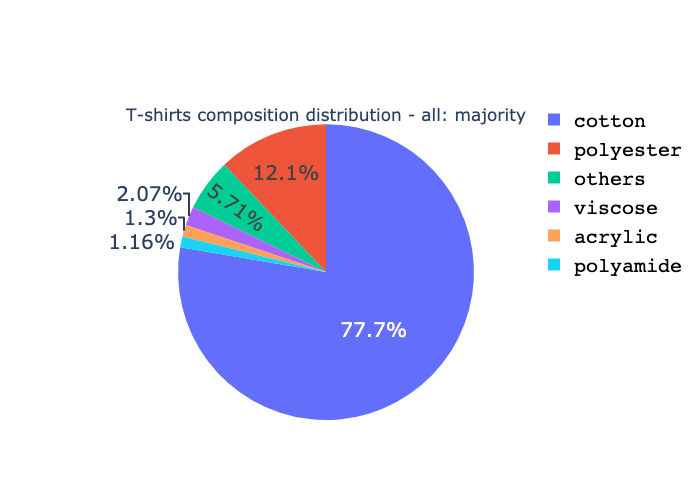
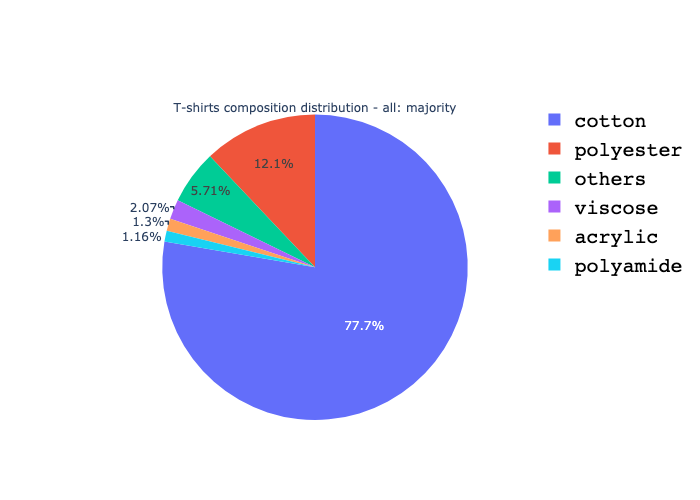
3rd updates on composition plots

diff --git a/EDA/EDA.py b/EDA/EDA.py
@@ -109,7 +109,7 @@ def plot_material_distribution(df, materials_columns, type):
                                         title = f"T-shirts composition distribution - {type}: majority")])
     fig.update_layout(legend = dict(font = dict(family = "Courier", size = 20, color = "black")),
                     legend_title = dict(font = dict(family = "Courier", size = 20, color = "blue")),
-                    font=dict(size=20))
+                    title = dict(font=dict(size=20)))
     fig.write_image(f"./EDA/composition_distribution_{type}_majority.png")
     fig.show()
 
@@ -117,7 +117,7 @@ def plot_material_distribution(df, materials_columns, type):
                                         title = f"T-shirts composition distribution - {type}: below 1%")])
     fig.update_layout(legend = dict(font = dict(family = "Courier", size = 20, color = "black")),
                     legend_title = dict(font = dict(family = "Courier", size = 20, color = "blue")),
-                    font=dict(size=20))
+                    title = dict(font=dict(size=20)))
     fig.write_image(f"./EDA/composition_distribution_{type}_minority.png")
     fig.show()
 
@@ -126,84 +126,84 @@ if __name__ == "__main__":
 
     df = pd.read_csv("./data/E-Weaver_data.csv", index_col = [0])
 
-    # # Statistical description for datatypes 
-    # print(df.info())
-    # print("-"*50)
-    # print(df.dtypes)
-    # print("-"*50)
-    # print(df.describe().T)
-    # print("-"*50)
+    # Statistical description for datatypes 
+    print(df.info())
+    print("-"*50)
+    print(df.dtypes)
+    print("-"*50)
+    print(df.describe().T)
+    print("-"*50)
 
-    # # Checking the number of rows having null values
-    # print(df[df.columns[df.isnull().any()]].isnull().sum())
-    # print("-"*50)
+    # Checking the number of rows having null values
+    print(df[df.columns[df.isnull().any()]].isnull().sum())
+    print("-"*50)
 
-    # # How many unique colors in dataset
-    # print(len(df["color"].unique()))
+    # How many unique colors in dataset
+    print(len(df["color"].unique()))
 
-    # # Price columns' distribution in bar plot
-    # df['price'].value_counts().head(10).plot.bar()
-    # plt.title("Price counts in descending order")
-    # plt.xlabel("price($)")
-    # plt.ylabel("counts")
-    # plt.savefig(f"./EDA/price_histogram.png")
-    # plt.show()
+    # Price columns' distribution in bar plot
+    df['price'].value_counts().head(10).plot.bar()
+    plt.title("Price counts in descending order")
+    plt.xlabel("price($)")
+    plt.ylabel("counts")
+    plt.savefig(f"./EDA/price_histogram.png")
+    plt.show()
 
-    # # Outlier analysis of price column
-    # price_df = df["price"]
-    # ax = sns.boxplot(data = price_df, palette = "Set2")
-    # plt.title("Outlier analysis of price attribute")
-    # plt.savefig(f"./EDA/price_outlier.png")
-    # plt.show()
+    # Outlier analysis of price column
+    price_df = df["price"]
+    ax = sns.boxplot(data = price_df, palette = "Set2")
+    plt.title("Outlier analysis of price attribute")
+    plt.savefig(f"./EDA/price_outlier.png")
+    plt.show()
 
     # Correlation analysis between numerical value attributes
     columns = df.columns.tolist()
     composition_index = columns.index("composition")
     materials_columns = columns[composition_index+1:-1]
 
-    # numerical_columns = materials_columns+["price"]
-    # numerical_df = df[numerical_columns]
+    numerical_columns = materials_columns+["price"]
+    numerical_df = df[numerical_columns]
     
-    # colormap = plt.cm.RdBu
-    # plt.figure(figsize=(15,15))
-    # plt.title("Pearson correlation of numerical features", y = 1.05, size = 15)
-    # sns.heatmap(numerical_df.astype(float).corr(), annot = True)
-    # plt.savefig(f"./EDA/numerical_feature_heatmap.png")
-    # plt.show()
+    colormap = plt.cm.RdBu
+    plt.figure(figsize=(15,15))
+    plt.title("Pearson correlation of numerical features", y = 1.05, size = 15)
+    sns.heatmap(numerical_df.astype(float).corr(), annot = True)
+    plt.savefig(f"./EDA/numerical_feature_heatmap.png")
+    plt.show()
 
-    # brand_lst = list(df.brand.unique())
-    # # for brand in brand_lst:
-    # #     # Create wordcloud for each indivicual brand
-    # #     tmp_df = df[df["brand"]==brand]
-    # #     make_wordcloud(tmp_df, brand)
+    brand_lst = list(df.brand.unique())
+    # for brand in brand_lst:
+    #     # Create wordcloud for each indivicual brand
+    #     tmp_df = df[df["brand"]==brand]
+    #     make_wordcloud(tmp_df, brand)
 
-    # #     # Create visualization for images'size distribution
-    # #     if brand == "tentree":
-    # #         continue
-    # #     imagePath_lst = [os.path.join("data/image_data", f) for f in os.listdir("data/image_data/") if brand in f]
-    # #     dim_df = pd.DataFrame([get_dims(imagePath) for imagePath in imagePath_lst], columns = ["height", "width"])
-    # #     dim_df = dim_df[dim_df.height != 0]
-    # #     plot_image_distribution(dim_df, brand)
+    #     # Create visualization for images'size distribution
+    #     if brand == "tentree":
+    #         continue
+    #     imagePath_lst = [os.path.join("data/image_data", f) for f in os.listdir("data/image_data/") if brand in f]
+    #     dim_df = pd.DataFrame([get_dims(imagePath) for imagePath in imagePath_lst], columns = ["height", "width"])
+    #     dim_df = dim_df[dim_df.height != 0]
+    #     plot_image_distribution(dim_df, brand)
 
-    # # Create wordcloud for all data
-    # make_wordcloud(df, "all")
+    # Create wordcloud for all data
+    make_wordcloud(df, "all")
 
-    # # Create visualization for all images's size
-    # imagePath_lst = [os.path.join("data/image_data", f) for f in os.listdir("data/image_data/")]
-    # dim_df = pd.DataFrame([get_dims(imagePath) for imagePath in imagePath_lst], columns = ["height", "width"])
+    # Create visualization for all images's size
+    imagePath_lst = [os.path.join("data/image_data", f) for f in os.listdir("data/image_data/")]
+    dim_df = pd.DataFrame([get_dims(imagePath) for imagePath in imagePath_lst], columns = ["height", "width"])
     
-    # # Get rid of image failed to download which only has 1 channel only
-    # dim_df = dim_df[dim_df.height != 0]
-    # plot_image_distribution(dim_df, "all")
+    # Get rid of image failed to download which only has 1 channel only
+    dim_df = dim_df[dim_df.height != 0]
+    plot_image_distribution(dim_df, "all")
 
-    # # Create visualization for price column
-    # # plot_order1 = df["price"].groupby('price')['price'].sum().sort_values(ascending=True).index.values
-    # g = sns.catplot("price", data=df, kind='count', height=10, aspect=1.5)
-    # (g.set_axis_labels("Price", "Count").set_titles("All data price distribution").despine(left=True))  
+    # Create visualization for price column
+    # plot_order1 = df["price"].groupby('price')['price'].sum().sort_values(ascending=True).index.values
+    g = sns.catplot("price", data=df, kind='count', height=10, aspect=1.5)
+    (g.set_axis_labels("Price", "Count").set_titles("All data price distribution").despine(left=True))  
 
-    # # Create visualization for all the composition materials
-    # df_men = df[df["gender"]=="men"]
-    # df_women = df[df["gender"]=="women"]
+    # Create visualization for all the composition materials
+    df_men = df[df["gender"]=="men"]
+    df_women = df[df["gender"]=="women"]
 
     plot_material_distribution(df, materials_columns, "all")
     # Create visualization for each gender's composition materials
